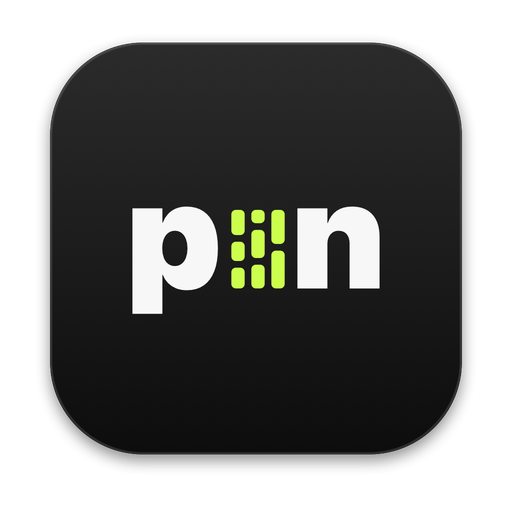
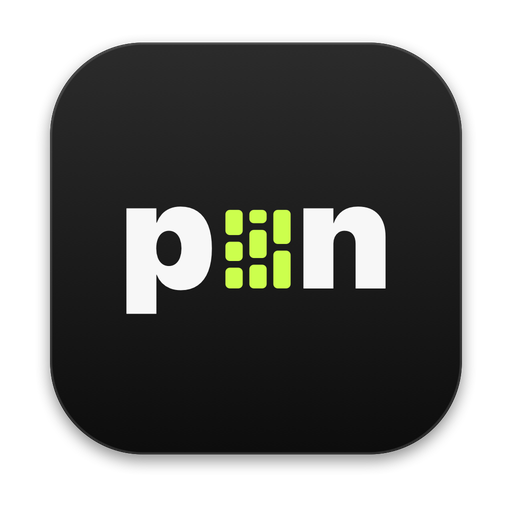
Pin mark: thicker tile block

diff --git a/apps/_shared/style.css b/apps/_shared/style.css
@@ -784,8 +784,8 @@ footer .fine { font-family: var(--mono); font-size: 11.5px; }
    heights, the screensaver's wall in miniature, at letter height. The gaps are set from the
    glyphs' ink (the p's bowl overhangs its box; the n has a side bearing), so they look equal. */
 .pinw { position: relative; display: inline-block; white-space: nowrap; }
-.pinw .mi { display: inline-block; height: .53em; width: .36em; margin: 0 .05em 0 .12em; overflow: hidden; line-height: 0; white-space: nowrap; }
-.pinw .mi .c { display: inline-flex; vertical-align: top; flex-direction: column; gap: .045em; height: 100%; width: .09em; margin-right: .045em; }
+.pinw .mi { display: inline-block; height: .53em; width: .44em; margin: 0 .05em 0 .12em; overflow: hidden; line-height: 0; white-space: nowrap; }
+.pinw .mi .c { display: inline-flex; vertical-align: top; flex-direction: column; gap: .045em; height: 100%; width: .1167em; margin-right: .045em; }
 .pinw .mi .c:last-child { margin-right: 0; }
 .pinw .mi b { display: block; flex: none; background: var(--accent); border-radius: .03em; }
 .pinw .mi .c b:last-child { flex: 1; }
@@ -804,8 +804,8 @@ footer .fine { font-family: var(--mono); font-size: 11.5px; }
 .anim-pin .mi .c:nth-child(1) { --d: 1.15s; } .anim-pin .mi .c:nth-child(2) { --d: 0.85s; } .anim-pin .mi .c:nth-child(3) { --d: 1.35s; }
 @keyframes pin-scroll-in { to { transform: none; } }
 .no-js .anim-pin .ch { opacity: 1; } .no-js .anim-pin .mi .c { transform: none; }
-.tile .mk .mi { display: inline-block; height: .53em; width: .36em; margin: 0 .05em 0 .12em; overflow: hidden; line-height: 0; white-space: nowrap; }
-.tile .mk .mi .c { display: inline-flex; vertical-align: top; flex-direction: column; gap: .045em; height: 100%; width: .09em; margin-right: .045em; }
+.tile .mk .mi { display: inline-block; height: .53em; width: .44em; margin: 0 .05em 0 .12em; overflow: hidden; line-height: 0; white-space: nowrap; }
+.tile .mk .mi .c { display: inline-flex; vertical-align: top; flex-direction: column; gap: .045em; height: 100%; width: .1167em; margin-right: .045em; }
 .tile .mk .mi .c:last-child { margin-right: 0; }
 .tile .mk .mi b { display: block; flex: none; background: var(--accent); border-radius: .03em; }
 .tile .mk .mi .c b:last-child { flex: 1; }

diff --git a/apps/hop/assets/style.css b/apps/hop/assets/style.css
@@ -784,8 +784,8 @@ footer .fine { font-family: var(--mono); font-size: 11.5px; }
    heights, the screensaver's wall in miniature, at letter height. The gaps are set from the
    glyphs' ink (the p's bowl overhangs its box; the n has a side bearing), so they look equal. */
 .pinw { position: relative; display: inline-block; white-space: nowrap; }
-.pinw .mi { display: inline-block; height: .53em; width: .36em; margin: 0 .05em 0 .12em; overflow: hidden; line-height: 0; white-space: nowrap; }
-.pinw .mi .c { display: inline-flex; vertical-align: top; flex-direction: column; gap: .045em; height: 100%; width: .09em; margin-right: .045em; }
+.pinw .mi { display: inline-block; height: .53em; width: .44em; margin: 0 .05em 0 .12em; overflow: hidden; line-height: 0; white-space: nowrap; }
+.pinw .mi .c { display: inline-flex; vertical-align: top; flex-direction: column; gap: .045em; height: 100%; width: .1167em; margin-right: .045em; }
 .pinw .mi .c:last-child { margin-right: 0; }
 .pinw .mi b { display: block; flex: none; background: var(--accent); border-radius: .03em; }
 .pinw .mi .c b:last-child { flex: 1; }
@@ -804,8 +804,8 @@ footer .fine { font-family: var(--mono); font-size: 11.5px; }
 .anim-pin .mi .c:nth-child(1) { --d: 1.15s; } .anim-pin .mi .c:nth-child(2) { --d: 0.85s; } .anim-pin .mi .c:nth-child(3) { --d: 1.35s; }
 @keyframes pin-scroll-in { to { transform: none; } }
 .no-js .anim-pin .ch { opacity: 1; } .no-js .anim-pin .mi .c { transform: none; }
-.tile .mk .mi { display: inline-block; height: .53em; width: .36em; margin: 0 .05em 0 .12em; overflow: hidden; line-height: 0; white-space: nowrap; }
-.tile .mk .mi .c { display: inline-flex; vertical-align: top; flex-direction: column; gap: .045em; height: 100%; width: .09em; margin-right: .045em; }
+.tile .mk .mi { display: inline-block; height: .53em; width: .44em; margin: 0 .05em 0 .12em; overflow: hidden; line-height: 0; white-space: nowrap; }
+.tile .mk .mi .c { display: inline-flex; vertical-align: top; flex-direction: column; gap: .045em; height: 100%; width: .1167em; margin-right: .045em; }
 .tile .mk .mi .c:last-child { margin-right: 0; }
 .tile .mk .mi b { display: block; flex: none; background: var(--accent); border-radius: .03em; }
 .tile .mk .mi .c b:last-child { flex: 1; }

diff --git a/apps/lut/assets/style.css b/apps/lut/assets/style.css
@@ -784,8 +784,8 @@ footer .fine { font-family: var(--mono); font-size: 11.5px; }
    heights, the screensaver's wall in miniature, at letter height. The gaps are set from the
    glyphs' ink (the p's bowl overhangs its box; the n has a side bearing), so they look equal. */
 .pinw { position: relative; display: inline-block; white-space: nowrap; }
-.pinw .mi { display: inline-block; height: .53em; width: .36em; margin: 0 .05em 0 .12em; overflow: hidden; line-height: 0; white-space: nowrap; }
-.pinw .mi .c { display: inline-flex; vertical-align: top; flex-direction: column; gap: .045em; height: 100%; width: .09em; margin-right: .045em; }
+.pinw .mi { display: inline-block; height: .53em; width: .44em; margin: 0 .05em 0 .12em; overflow: hidden; line-height: 0; white-space: nowrap; }
+.pinw .mi .c { display: inline-flex; vertical-align: top; flex-direction: column; gap: .045em; height: 100%; width: .1167em; margin-right: .045em; }
 .pinw .mi .c:last-child { margin-right: 0; }
 .pinw .mi b { display: block; flex: none; background: var(--accent); border-radius: .03em; }
 .pinw .mi .c b:last-child { flex: 1; }
@@ -804,8 +804,8 @@ footer .fine { font-family: var(--mono); font-size: 11.5px; }
 .anim-pin .mi .c:nth-child(1) { --d: 1.15s; } .anim-pin .mi .c:nth-child(2) { --d: 0.85s; } .anim-pin .mi .c:nth-child(3) { --d: 1.35s; }
 @keyframes pin-scroll-in { to { transform: none; } }
 .no-js .anim-pin .ch { opacity: 1; } .no-js .anim-pin .mi .c { transform: none; }
-.tile .mk .mi { display: inline-block; height: .53em; width: .36em; margin: 0 .05em 0 .12em; overflow: hidden; line-height: 0; white-space: nowrap; }
-.tile .mk .mi .c { display: inline-flex; vertical-align: top; flex-direction: column; gap: .045em; height: 100%; width: .09em; margin-right: .045em; }
+.tile .mk .mi { display: inline-block; height: .53em; width: .44em; margin: 0 .05em 0 .12em; overflow: hidden; line-height: 0; white-space: nowrap; }
+.tile .mk .mi .c { display: inline-flex; vertical-align: top; flex-direction: column; gap: .045em; height: 100%; width: .1167em; margin-right: .045em; }
 .tile .mk .mi .c:last-child { margin-right: 0; }
 .tile .mk .mi b { display: block; flex: none; background: var(--accent); border-radius: .03em; }
 .tile .mk .mi .c b:last-child { flex: 1; }

diff --git a/apps/pin/assets/style.css b/apps/pin/assets/style.css
@@ -784,8 +784,8 @@ footer .fine { font-family: var(--mono); font-size: 11.5px; }
    heights, the screensaver's wall in miniature, at letter height. The gaps are set from the
    glyphs' ink (the p's bowl overhangs its box; the n has a side bearing), so they look equal. */
 .pinw { position: relative; display: inline-block; white-space: nowrap; }
-.pinw .mi { display: inline-block; height: .53em; width: .36em; margin: 0 .05em 0 .12em; overflow: hidden; line-height: 0; white-space: nowrap; }
-.pinw .mi .c { display: inline-flex; vertical-align: top; flex-direction: column; gap: .045em; height: 100%; width: .09em; margin-right: .045em; }
+.pinw .mi { display: inline-block; height: .53em; width: .44em; margin: 0 .05em 0 .12em; overflow: hidden; line-height: 0; white-space: nowrap; }
+.pinw .mi .c { display: inline-flex; vertical-align: top; flex-direction: column; gap: .045em; height: 100%; width: .1167em; margin-right: .045em; }
 .pinw .mi .c:last-child { margin-right: 0; }
 .pinw .mi b { display: block; flex: none; background: var(--accent); border-radius: .03em; }
 .pinw .mi .c b:last-child { flex: 1; }
@@ -804,8 +804,8 @@ footer .fine { font-family: var(--mono); font-size: 11.5px; }
 .anim-pin .mi .c:nth-child(1) { --d: 1.15s; } .anim-pin .mi .c:nth-child(2) { --d: 0.85s; } .anim-pin .mi .c:nth-child(3) { --d: 1.35s; }
 @keyframes pin-scroll-in { to { transform: none; } }
 .no-js .anim-pin .ch { opacity: 1; } .no-js .anim-pin .mi .c { transform: none; }
-.tile .mk .mi { display: inline-block; height: .53em; width: .36em; margin: 0 .05em 0 .12em; overflow: hidden; line-height: 0; white-space: nowrap; }
-.tile .mk .mi .c { display: inline-flex; vertical-align: top; flex-direction: column; gap: .045em; height: 100%; width: .09em; margin-right: .045em; }
+.tile .mk .mi { display: inline-block; height: .53em; width: .44em; margin: 0 .05em 0 .12em; overflow: hidden; line-height: 0; white-space: nowrap; }
+.tile .mk .mi .c { display: inline-flex; vertical-align: top; flex-direction: column; gap: .045em; height: 100%; width: .1167em; margin-right: .045em; }
 .tile .mk .mi .c:last-child { margin-right: 0; }
 .tile .mk .mi b { display: block; flex: none; background: var(--accent); border-radius: .03em; }
 .tile .mk .mi .c b:last-child { flex: 1; }

diff --git a/apps/stm/assets/style.css b/apps/stm/assets/style.css
@@ -784,8 +784,8 @@ footer .fine { font-family: var(--mono); font-size: 11.5px; }
    heights, the screensaver's wall in miniature, at letter height. The gaps are set from the
    glyphs' ink (the p's bowl overhangs its box; the n has a side bearing), so they look equal. */
 .pinw { position: relative; display: inline-block; white-space: nowrap; }
-.pinw .mi { display: inline-block; height: .53em; width: .36em; margin: 0 .05em 0 .12em; overflow: hidden; line-height: 0; white-space: nowrap; }
-.pinw .mi .c { display: inline-flex; vertical-align: top; flex-direction: column; gap: .045em; height: 100%; width: .09em; margin-right: .045em; }
+.pinw .mi { display: inline-block; height: .53em; width: .44em; margin: 0 .05em 0 .12em; overflow: hidden; line-height: 0; white-space: nowrap; }
+.pinw .mi .c { display: inline-flex; vertical-align: top; flex-direction: column; gap: .045em; height: 100%; width: .1167em; margin-right: .045em; }
 .pinw .mi .c:last-child { margin-right: 0; }
 .pinw .mi b { display: block; flex: none; background: var(--accent); border-radius: .03em; }
 .pinw .mi .c b:last-child { flex: 1; }
@@ -804,8 +804,8 @@ footer .fine { font-family: var(--mono); font-size: 11.5px; }
 .anim-pin .mi .c:nth-child(1) { --d: 1.15s; } .anim-pin .mi .c:nth-child(2) { --d: 0.85s; } .anim-pin .mi .c:nth-child(3) { --d: 1.35s; }
 @keyframes pin-scroll-in { to { transform: none; } }
 .no-js .anim-pin .ch { opacity: 1; } .no-js .anim-pin .mi .c { transform: none; }
-.tile .mk .mi { display: inline-block; height: .53em; width: .36em; margin: 0 .05em 0 .12em; overflow: hidden; line-height: 0; white-space: nowrap; }
-.tile .mk .mi .c { display: inline-flex; vertical-align: top; flex-direction: column; gap: .045em; height: 100%; width: .09em; margin-right: .045em; }
+.tile .mk .mi { display: inline-block; height: .53em; width: .44em; margin: 0 .05em 0 .12em; overflow: hidden; line-height: 0; white-space: nowrap; }
+.tile .mk .mi .c { display: inline-flex; vertical-align: top; flex-direction: column; gap: .045em; height: 100%; width: .1167em; margin-right: .045em; }
 .tile .mk .mi .c:last-child { margin-right: 0; }
 .tile .mk .mi b { display: block; flex: none; background: var(--accent); border-radius: .03em; }
 .tile .mk .mi .c b:last-child { flex: 1; }

diff --git a/apps/syn/assets/style.css b/apps/syn/assets/style.css
@@ -784,8 +784,8 @@ footer .fine { font-family: var(--mono); font-size: 11.5px; }
    heights, the screensaver's wall in miniature, at letter height. The gaps are set from the
    glyphs' ink (the p's bowl overhangs its box; the n has a side bearing), so they look equal. */
 .pinw { position: relative; display: inline-block; white-space: nowrap; }
-.pinw .mi { display: inline-block; height: .53em; width: .36em; margin: 0 .05em 0 .12em; overflow: hidden; line-height: 0; white-space: nowrap; }
-.pinw .mi .c { display: inline-flex; vertical-align: top; flex-direction: column; gap: .045em; height: 100%; width: .09em; margin-right: .045em; }
+.pinw .mi { display: inline-block; height: .53em; width: .44em; margin: 0 .05em 0 .12em; overflow: hidden; line-height: 0; white-space: nowrap; }
+.pinw .mi .c { display: inline-flex; vertical-align: top; flex-direction: column; gap: .045em; height: 100%; width: .1167em; margin-right: .045em; }
 .pinw .mi .c:last-child { margin-right: 0; }
 .pinw .mi b { display: block; flex: none; background: var(--accent); border-radius: .03em; }
 .pinw .mi .c b:last-child { flex: 1; }
@@ -804,8 +804,8 @@ footer .fine { font-family: var(--mono); font-size: 11.5px; }
 .anim-pin .mi .c:nth-child(1) { --d: 1.15s; } .anim-pin .mi .c:nth-child(2) { --d: 0.85s; } .anim-pin .mi .c:nth-child(3) { --d: 1.35s; }
 @keyframes pin-scroll-in { to { transform: none; } }
 .no-js .anim-pin .ch { opacity: 1; } .no-js .anim-pin .mi .c { transform: none; }
-.tile .mk .mi { display: inline-block; height: .53em; width: .36em; margin: 0 .05em 0 .12em; overflow: hidden; line-height: 0; white-space: nowrap; }
-.tile .mk .mi .c { display: inline-flex; vertical-align: top; flex-direction: column; gap: .045em; height: 100%; width: .09em; margin-right: .045em; }
+.tile .mk .mi { display: inline-block; height: .53em; width: .44em; margin: 0 .05em 0 .12em; overflow: hidden; line-height: 0; white-space: nowrap; }
+.tile .mk .mi .c { display: inline-flex; vertical-align: top; flex-direction: column; gap: .045em; height: 100%; width: .1167em; margin-right: .045em; }
 .tile .mk .mi .c:last-child { margin-right: 0; }
 .tile .mk .mi b { display: block; flex: none; background: var(--accent); border-radius: .03em; }
 .tile .mk .mi .c b:last-child { flex: 1; }

diff --git a/apps/tag/assets/style.css b/apps/tag/assets/style.css
@@ -784,8 +784,8 @@ footer .fine { font-family: var(--mono); font-size: 11.5px; }
    heights, the screensaver's wall in miniature, at letter height. The gaps are set from the
    glyphs' ink (the p's bowl overhangs its box; the n has a side bearing), so they look equal. */
 .pinw { position: relative; display: inline-block; white-space: nowrap; }
-.pinw .mi { display: inline-block; height: .53em; width: .36em; margin: 0 .05em 0 .12em; overflow: hidden; line-height: 0; white-space: nowrap; }
-.pinw .mi .c { display: inline-flex; vertical-align: top; flex-direction: column; gap: .045em; height: 100%; width: .09em; margin-right: .045em; }
+.pinw .mi { display: inline-block; height: .53em; width: .44em; margin: 0 .05em 0 .12em; overflow: hidden; line-height: 0; white-space: nowrap; }
+.pinw .mi .c { display: inline-flex; vertical-align: top; flex-direction: column; gap: .045em; height: 100%; width: .1167em; margin-right: .045em; }
 .pinw .mi .c:last-child { margin-right: 0; }
 .pinw .mi b { display: block; flex: none; background: var(--accent); border-radius: .03em; }
 .pinw .mi .c b:last-child { flex: 1; }
@@ -804,8 +804,8 @@ footer .fine { font-family: var(--mono); font-size: 11.5px; }
 .anim-pin .mi .c:nth-child(1) { --d: 1.15s; } .anim-pin .mi .c:nth-child(2) { --d: 0.85s; } .anim-pin .mi .c:nth-child(3) { --d: 1.35s; }
 @keyframes pin-scroll-in { to { transform: none; } }
 .no-js .anim-pin .ch { opacity: 1; } .no-js .anim-pin .mi .c { transform: none; }
-.tile .mk .mi { display: inline-block; height: .53em; width: .36em; margin: 0 .05em 0 .12em; overflow: hidden; line-height: 0; white-space: nowrap; }
-.tile .mk .mi .c { display: inline-flex; vertical-align: top; flex-direction: column; gap: .045em; height: 100%; width: .09em; margin-right: .045em; }
+.tile .mk .mi { display: inline-block; height: .53em; width: .44em; margin: 0 .05em 0 .12em; overflow: hidden; line-height: 0; white-space: nowrap; }
+.tile .mk .mi .c { display: inline-flex; vertical-align: top; flex-direction: column; gap: .045em; height: 100%; width: .1167em; margin-right: .045em; }
 .tile .mk .mi .c:last-child { margin-right: 0; }
 .tile .mk .mi b { display: block; flex: none; background: var(--accent); border-radius: .03em; }
 .tile .mk .mi .c b:last-child { flex: 1; }

diff --git a/src/style.css b/src/style.css
@@ -425,8 +425,8 @@ footer .fine a { border-bottom: 1px solid var(--stroke-strong); }
 /* Pin: a block of lime tiles stands in for the i (see apps/_shared/style.css). The tile is a
    flex box, so the mark is laid out inline here for the block's baseline to sit right. */
 .tile .mk:has(.mi) { display: inline-block; white-space: nowrap; }
-.tile .mk .mi { display: inline-block; height: .53em; width: .36em; margin: 0 .05em 0 .12em; overflow: hidden; line-height: 0; white-space: nowrap; }
-.tile .mk .mi .c { display: inline-flex; vertical-align: top; flex-direction: column; gap: .045em; height: 100%; width: .09em; margin-right: .045em; }
+.tile .mk .mi { display: inline-block; height: .53em; width: .44em; margin: 0 .05em 0 .12em; overflow: hidden; line-height: 0; white-space: nowrap; }
+.tile .mk .mi .c { display: inline-flex; vertical-align: top; flex-direction: column; gap: .045em; height: 100%; width: .1167em; margin-right: .045em; }
 .tile .mk .mi .c:last-child { margin-right: 0; }
 .tile .mk .mi b { display: block; flex: none; background: var(--accent); border-radius: .03em; }
 .tile .mk .mi .c b:last-child { flex: 1; }
